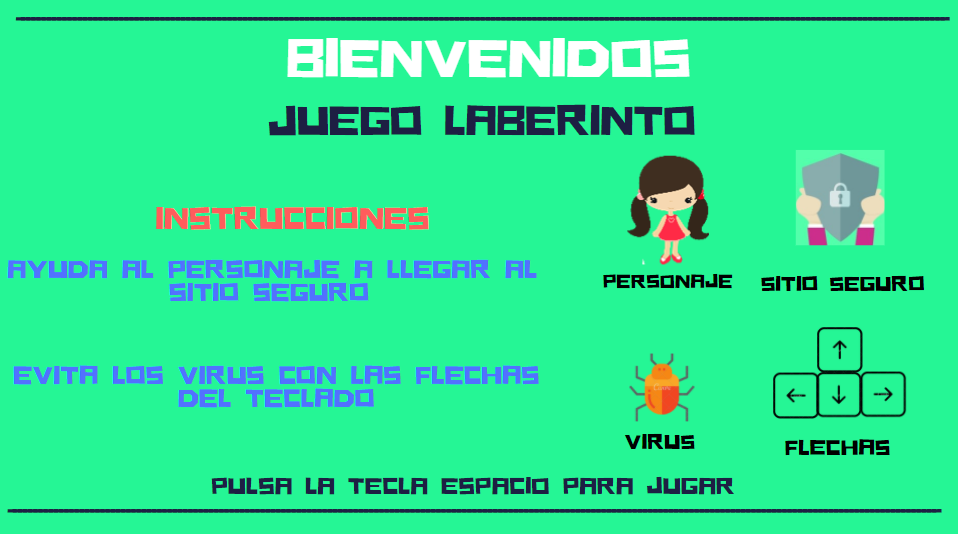
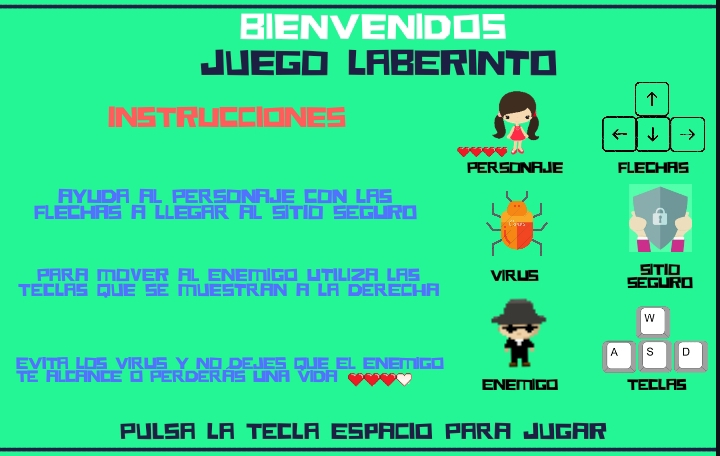
Clase Observador y enemigo
Nueva imagen de instrucciones. Adición de observador. Adición de constantes en settings. Corrección clase cuadro y adición enemigo.

diff --git a/src/laberinto/cuadrosLaberinto.py b/src/laberinto/cuadrosLaberinto.py
@@ -4,15 +4,12 @@ from pygame.locals import *
 from abc import ABC, abstractmethod
 from laberinto.posicionLaberinto import *
 from laberinto.listenerLaberinto import *
+from laberinto.observadorLaberinto import *
 
 class CuadroLaberinto(ABC):
     def __init__(self, posicion):
         self.posicion = posicion
         super().__init__()
-
-    @property
-    def posicion(self):
-        return self.__posicion
 
     @abstractmethod
     def dibujar(self):
@@ -25,7 +22,7 @@ class CuadroLaberinto(ABC):
 
 class FondoLaberinto(CuadroLaberinto):
     def __init__(self, imagen, posicion):
-        self._CuadroLaberinto__posicion = posicion
+        super().__init__(posicion)
         self.imagen = pygame.image.load(imagen)
 
     def dibujar(self, ventana):
@@ -40,7 +37,7 @@ class FondoLaberinto(CuadroLaberinto):
 
 class PersonajeLaberinto(CuadroLaberinto):
     def __init__(self, imagen, posicion):
-        self._CuadroLaberinto__posicion = posicion
+        super().__init__(posicion)
         self.imagen = pygame.image.load(imagen)
         self.numeroVidas = s.maximo_de_vidas
 
@@ -65,9 +62,40 @@ class PersonajeLaberinto(CuadroLaberinto):
             pygame.time.delay(150)
 
 
+class EnemigoLaberinto(CuadroLaberinto, ObservadorLaberinto):
+    def __init__(self, imagen, posicion):
+        super().__init__(posicion)
+        self.imagen = pygame.image.load(imagen)
+
+    def dibujar(self, ventana):
+        (x, y) = (self.posicion.x, self.posicion.y)
+        ventana.blit(pygame.transform.scale(self.imagen, (s.dim_Cuadro, s.dim_Cuadro)), (x, y))
+
+    def mover(self, dr, sl):
+        keys = ListenerLaberinto.detectar()
+        (x, y) = (self.posicion.x, self.posicion.y)
+        if keys[pygame.K_w] and sl.verificar(self, (x, y - dr)):
+            self.posicion.actualizarY(y - dr)
+            pygame.time.delay(150)
+        if keys[pygame.K_s] and sl.verificar(self, (x, y + dr)):
+            self.posicion.actualizarY(y + dr)
+            pygame.time.delay(150)
+        if keys[pygame.K_a] and sl.verificar(self, (x - dr, y)):
+            self.posicion.actualizarX(x - dr)
+            pygame.time.delay(150)
+        if keys[pygame.K_d] and sl.verificar(self, (x + dr, y)):
+            self.posicion.actualizarX(x + dr)
+            pygame.time.delay(150)
+
+    def actualizar(self, virus, enemigo, meta, perdida, corazon):
+        if enemigo:
+            self.posicion.actualizarX(s.posInicial_Enemigo[0])
+            self.posicion.actualizarY(s.posInicial_Enemigo[1])
+            
+
 class CaminoLaberinto(CuadroLaberinto):
     def __init__(self, imagen, posicion):
-        self._CuadroLaberinto__posicion = posicion
+        super().__init__(posicion)
         self.imagen = pygame.image.load(imagen)
 
     def dibujar(self, ventana):
@@ -80,7 +108,7 @@ class CaminoLaberinto(CuadroLaberinto):
 
 class VirusLaberinto(CuadroLaberinto):
     def __init__(self, imagen, posicion):
-        self._CuadroLaberinto__posicion = posicion
+        super().__init__(posicion)
         self.imagen = pygame.image.load(imagen)
 
     def dibujar(self, ventana):
@@ -93,7 +121,7 @@ class VirusLaberinto(CuadroLaberinto):
 
 class MetaLaberinto(CuadroLaberinto):
     def __init__(self, imagen, posicion):
-        self._CuadroLaberinto__posicion = posicion
+        super().__init__(posicion)
         self.imagen = pygame.image.load(imagen)
 
     def dibujar(self, ventana):
@@ -105,7 +133,7 @@ class MetaLaberinto(CuadroLaberinto):
 
 class MensajeLaberinto(CuadroLaberinto):
     def __init__(self, imagen, nombre):
-        self._CuadroLaberinto__posicion = PosicionLaberinto(0, 0)
+        super().__init__(PosicionLaberinto(0, 0))
         self.imagen = pygame.image.load(imagen)
         self.nombre = nombre
         self.aparecer = False
@@ -129,7 +157,7 @@ class MensajeLaberinto(CuadroLaberinto):
 
 class TableroLaberinto(CuadroLaberinto):
     def __init__(self):
-        self._CuadroLaberinto__posicion = PosicionLaberinto(0,0)
+        super().__init__(PosicionLaberinto(0, 0))
         self.dictCuadros = dict()
         self.dictCuadros['camino'] = list()
         self.dictCuadros['virus'] = list()
@@ -164,7 +192,7 @@ class TableroLaberinto(CuadroLaberinto):
 
 class VidaLaberinto(CuadroLaberinto):
     def __init__(self, imagen1, imagen2, posicion):
-        self._CuadroLaberinto__posicion = posicion
+        super().__init__(posicion)
         self.imagenes = [pygame.image.load(imagen1), pygame.image.load(imagen2)]
         self.lleno = 1
 

diff --git a/src/laberinto/settingsLaberinto.py b/src/laberinto/settingsLaberinto.py
@@ -5,9 +5,17 @@ def init():
     global FPS
     global velocidad
     global maximo_de_vidas
+    global posInicial_Personaje
+    global posInicial_Enemigo
+    global posMeta
+    global puntosTOTALES
+    puntosTOTALES = 100
     dim_Cuadro = 34
     columnas = 21
     filas = 14
     FPS = 60
     velocidad = 34
     maximo_de_vidas = 4
+    posInicial_Personaje = (0, 0)
+    posInicial_Enemigo = (20 * dim_Cuadro, 1 * dim_Cuadro)
+    posMeta = (20 * dim_Cuadro, 12 * dim_Cuadro)

diff --git a/src/laberinto/observadorLaberinto.py b/src/laberinto/observadorLaberinto.py
@@ -1,0 +1,5 @@
+from abc import ABC, abstractmethod
+class ObservadorLaberinto(ABC):
+    @abstractmethod
+    def actualizar(self):
+        pass
